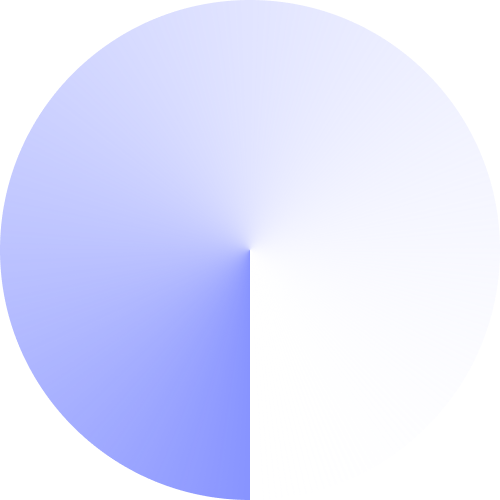
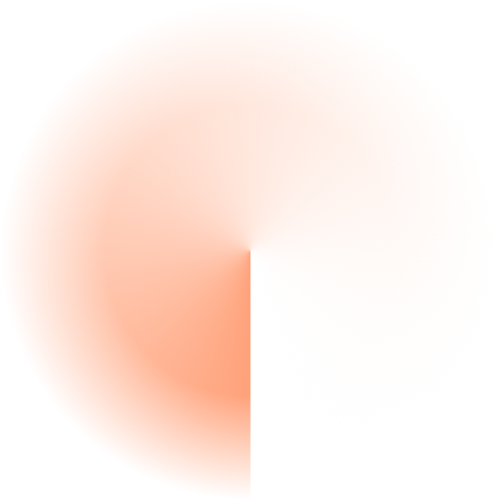
btn3 외곽선 문제 해결

diff --git a/02_Merge_functions_task/Merge_functions_task.py b/02_Merge_functions_task/Merge_functions_task.py
@@ -33,10 +33,13 @@ def draw():
     # btn1가 활성화되었을 경우
     if 0 in active_buttons:
         light_choice_img = choice(light_img)
-        image(light_choice_img, randint(0, 1280), randint(0, 600))  # width와 height를 랜덤 크기로 설정
+        image(light_choice_img, randint(0, 1280), randint(0, 500))
 
     #btn3이 활성화 되었을 경우
     if 2 in active_buttons:
+
+        fill(255)
+        circle(1280/2, 613/2, 500)
 
         push_matrix()
         translate(1280 / 2, 613 / 2)  # 캔버스의 중심점을 회전의 중심점으로 설정합니다
@@ -50,7 +53,6 @@ def draw():
         translate(1280 / 2, 613 / 2)  # 캔버스의 중심점을 회전의 중심점으로 설정합니다
         rotate(radians(mouse_y))  # 마우스의 y좌표에 따라 blue 이미지를 회전시킵니다.
         image(circle_image[1], -circle_image[1].width/2, -circle_image[1].height/2)
-
         pop_matrix()
 
 
